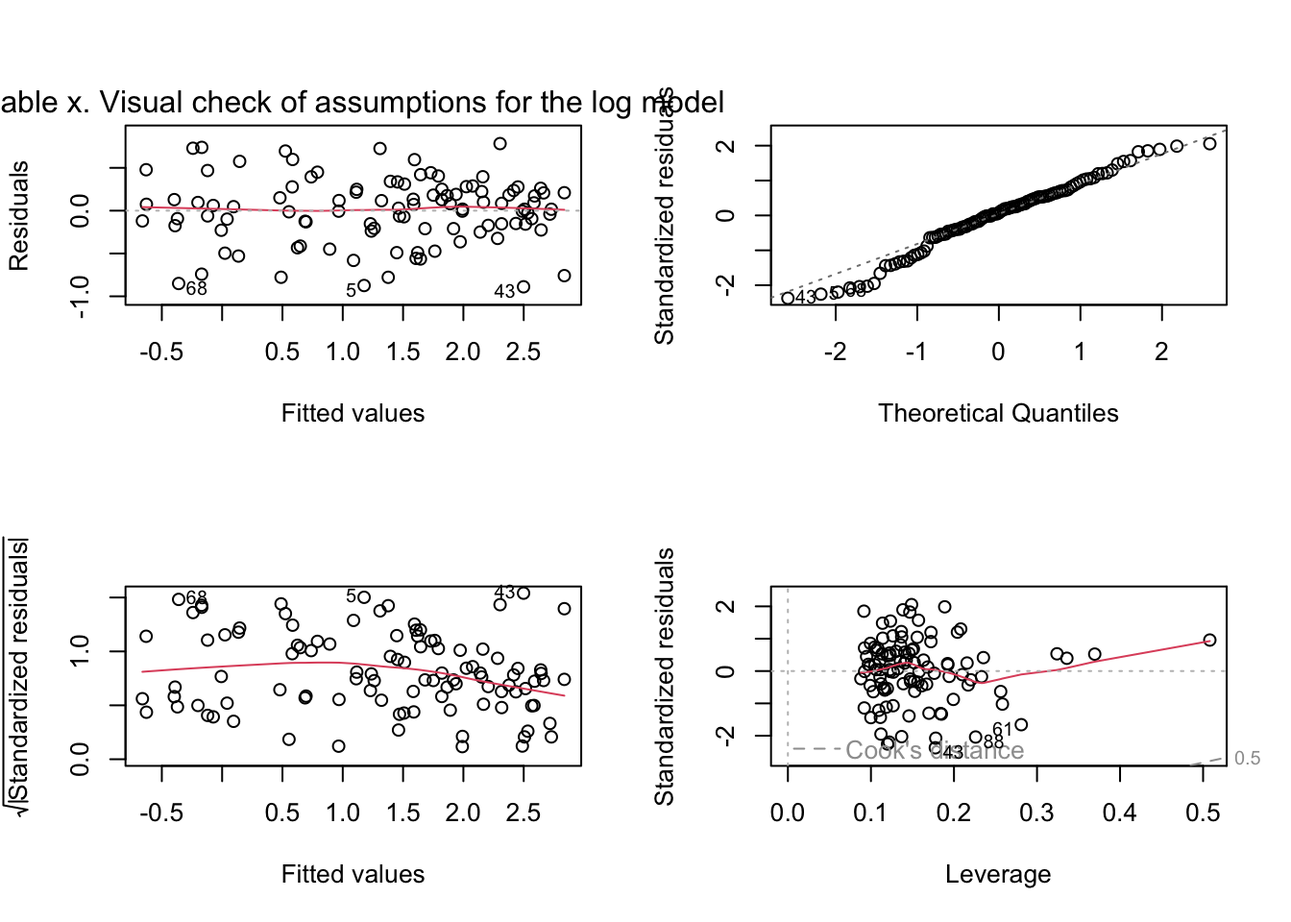
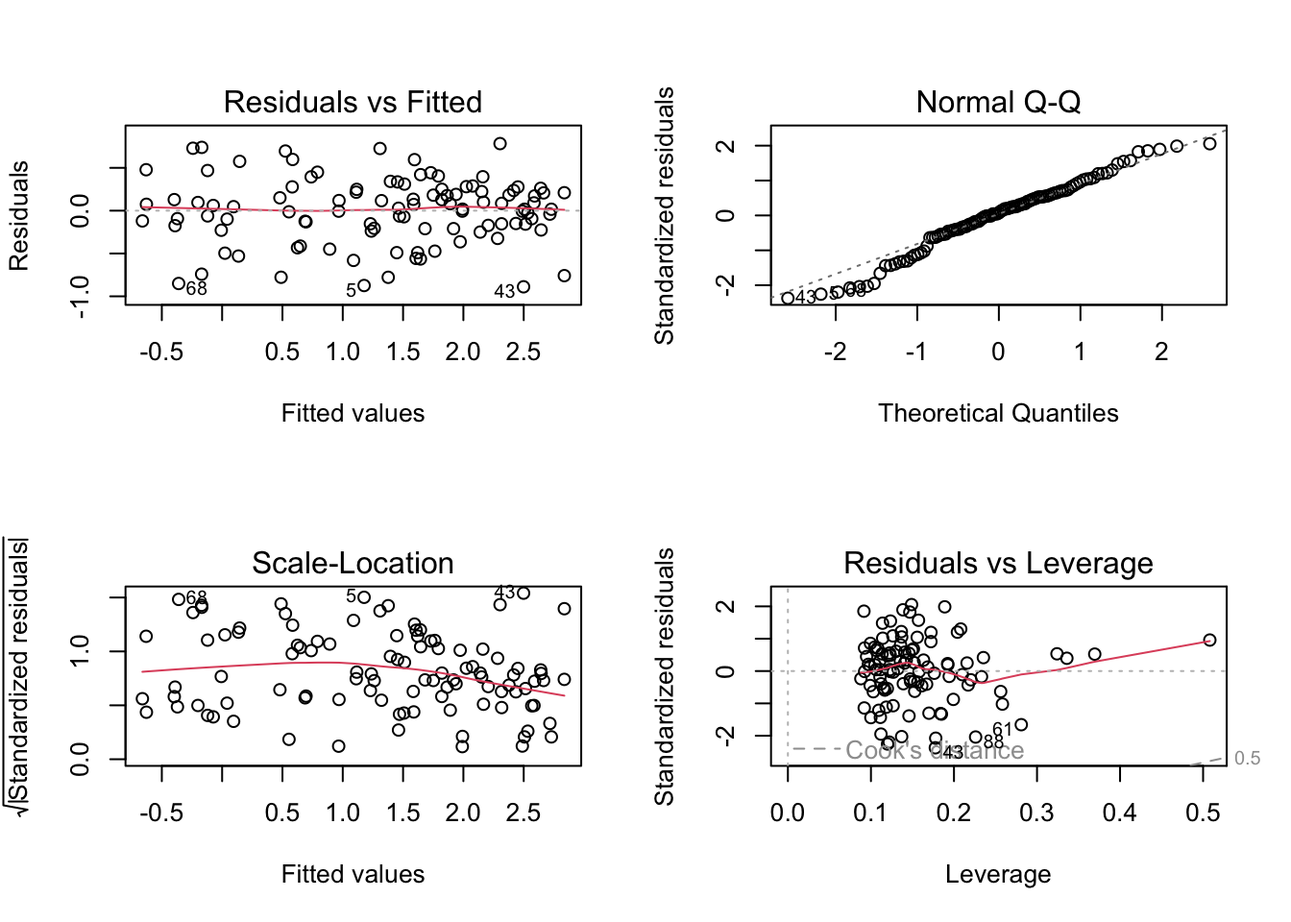
methods complete

diff --git a/code/hw5.html b/code/hw5.html
@@ -162,7 +162,8 @@ pre > code.sourceCode > span > a:first-child::before { text-decoration: underlin
 </section>
 <section id="methods" class="level1">
 <h1>Methods</h1>
-<p>llison and Farnsworth (2021) conducted a manipulative feeding experiment with multiple species of Sarracenia to examine the effects of varying nutrient availability on multiple physiological factors. The resulting data was wrangled and uploaded to RStudio. We initially filtered the dataset to extract the variables most relevant to answering our research question: how do Sarracenia characteristics predict biomass? After initial wrangling and filtering, we began our analysis by creating a visualization of the missing data in our entire data subset (Figure 1). This figure brings attention to the missing values for several variables, however, the missingness is relatively low. In order to examine the relationships between the numerical variables in our dataset, we calculated Pearson’s r and visually represented the correlation using a correlation plot (Figure 2). This correlation plot allows us to visually represent the possible correlations between our variables. To further understand the relationships between our variables, we created a pair plot of each variable compared against the others (Figure 3). o determine how species and physiological characters predict biomass, we fit multiple linear models. We started by creating a full model using the entire subset of variables of interest, with total mass (<span class="math inline">\(g\)</span>) as the response variable, and the predictor variables being the species of Sarracenia, feed level (<span class="math inline">\(g\)</span>), specific leaf area (<span class="math inline">\(cm^2/g\)</span>), chlorophyll a + b content (<span class="math inline">\(mg/g\)</span>), photosynthetic rate (<span class="math inline">\(nmol CO2 * g^-1 * s^-1\)</span>), number of phyllodes, and number of pitchers and phyllodes. The null model does not contain our predictor variables, only the response variable. We tested our full model for normality using Shapiro-Wilk test and for heteroscedasticity using Breusch-Pagan test. Unfortunately, the full model was non-normal &amp; heteroscedastic, therefore did not meet the assumptions for linear regression (Figure 4). To combat this, we performed a mathematical transformation by taking the log of the response variable. The resulting log transformed model did meet the visual and statistical assumption checks for linear regression by having normally distributed residuals and homoscedastic variance (Figure 5). Using this log model, we set out to determine which predictor variables best explain the response in total mass. e found that species alone is a good predictor of total mass. Figure 4: model 1, species (not enough)</p>
+<p>Ellison and Farnsworth (2021) conducted a manipulative feeding experiment with multiple species of Sarracenia to examine the effects of varying nutrient availability on multiple physiological factors. The resulting data was wrangled and uploaded to RStudio. We initially filtered the dataset to extract the variables most relevant to answering our research question: how do Sarracenia characteristics predict biomass? After initial wrangling and filtering, we began our analysis by creating a visualization of the missing data in our entire data subset (Figure 1). This figure brings attention to the missing values for several variables, however, the missingness is relatively low. In order to examine the relationships between the numerical variables in our dataset, we calculated Pearson’s r and visually represented the correlation using a correlation plot (Figure 2). This correlation plot allows us to visually represent the possible correlations between our variables. To further understand the relationships between our variables, we created a pair plot of each variable compared against the others (Figure 3). To determine how species and physiological characters predict biomass, we fit multiple linear models. We started by creating a full model using the entire subset of variables of interest, with total mass (<span class="math inline">\(g\)</span>) as the response variable, and the predictor variables being the species of Sarracenia, feed level (<span class="math inline">\(g\)</span>), specific leaf area (<span class="math inline">\(cm^2/g\)</span>), chlorophyll a + b content (<span class="math inline">\(mg/g\)</span>), photosynthetic rate (<span class="math inline">\(nmol CO2 * g^-1 * s^-1\)</span>), number of phyllodes, and number of pitchers and phyllodes. The null model does not contain our predictor variables, only the response variable. We tested our full model for normality using Shapiro-Wilk test and for heteroscedasticity using Breusch-Pagan test. Unfortunately, the full model was non-normal &amp; heteroscedastic, therefore did not meet the assumptions for linear regression (Figure 4). To combat this, we performed a mathematical transformation by taking the log of the response variable. The resulting log transformed model did meet the visual and statistical assumption checks for linear regression by having normally distributed residuals and homoscedastic variance (Figure 5). Using this log model, we set out to determine which predictor variables best explain the response in total mass. We found that species alone is a good predictor of total mass. Model 1, representing species as the sole predictor of biomass, conforms visually and statistically to the assumptions of linear regression (Figure 6). We chose this model due to the strong correlation between species and biomass. To create Model 2 we excluded the predictor variable that had the lowest correlation with biomass, which was number of phyllodes. Model 2 also has normally distributed residuals and homoscedastic variance (Figure 7). We hoped that excluding the variable with the weakest correlation would increase the simplicity of our results. Finally, we excluded several poorly correlated variables to create Model 3, including only the more strongly correlated variables of species, specific leaf area, feed level, chlorophyll, and number of pitchers and phyllodes. To ensure accuracy of our interpretation, we evaluated multicolinearity by calculating the generalized Variance Inflation Factor and determined that there are no related predictors which inflate the data (Table 1). We then compared our constructed models using Akaike Info Criterion (AIC).</p>
+<p>(Figure 4: model 1, species (not enough)</p>
 <p>Assumption</p>
 <p>Figure 5: model 2,</p>
 <p>To create the second model, we removed the predictor variable with the lowest correlation with biomass, which was the photosynthetic rate. Looking at a model with relatively many predictor variables Assumptions</p>
@@ -177,16 +178,11 @@ pre > code.sourceCode > span > a:first-child::before { text-decoration: underlin
 <div class="cell">
 <details>
 <summary>Code</summary>
-<div class="sourceCode cell-code" id="cb3"><pre class="sourceCode r code-with-copy"><code class="sourceCode r"><span id="cb3-1"><a href="#cb3-1" aria-hidden="true" tabindex="-1"></a><span class="co"># Figure 1: visualize missing data</span></span>
+<div class="sourceCode cell-code" id="cb3"><pre class="sourceCode r code-with-copy"><code class="sourceCode r"><span id="cb3-1"><a href="#cb3-1" aria-hidden="true" tabindex="-1"></a><span class="co"># Figure 1. visualize missing data</span></span>
 <span id="cb3-2"><a href="#cb3-2" aria-hidden="true" tabindex="-1"></a><span class="fu">gg_miss_var</span>(plant) </span></code><button title="Copy to Clipboard" class="code-copy-button"><i class="bi"></i></button></pre></div>
 </details>
 <div class="cell-output-display">
-<div id="fig-1" class="quarto-figure quarto-figure-center anchored">
-<figure class="figure">
-<p><img src="hw5_files/figure-html/fig-1-1.png" class="img-fluid figure-img" width="672"></p>
-<p></p><figcaption class="figure-caption">Figure&nbsp;1: <strong>?(caption)</strong></figcaption><p></p>
-</figure>
-</div>
+<p><img src="hw5_files/figure-html/miss-var-1.png" class="img-fluid" width="672"></p>
 </div>
 </div>
 <p><strong>Figure 1. Visualizing variables with missing data in the Sarracinia data subset.</strong> The variables chlorophyll, amass, sla, num_phylls, and num_lvs all have missing data, however, the missingness is relatively low.</p>
@@ -201,7 +197,7 @@ pre > code.sourceCode > span > a:first-child::before { text-decoration: underlin
 <div class="cell">
 <details>
 <summary>Code</summary>
-<div class="sourceCode cell-code" id="cb5"><pre class="sourceCode r code-with-copy"><code class="sourceCode r"><span id="cb5-1"><a href="#cb5-1" aria-hidden="true" tabindex="-1"></a><span class="co"># Figure 2: correlation plot</span></span>
+<div class="sourceCode cell-code" id="cb5"><pre class="sourceCode r code-with-copy"><code class="sourceCode r"><span id="cb5-1"><a href="#cb5-1" aria-hidden="true" tabindex="-1"></a><span class="co"># correlation plot</span></span>
 <span id="cb5-2"><a href="#cb5-2" aria-hidden="true" tabindex="-1"></a><span class="co"># calculate Pearson's r for numerical values only</span></span>
 <span id="cb5-3"><a href="#cb5-3" aria-hidden="true" tabindex="-1"></a>plant_cor <span class="ot">&lt;-</span> plant_subset <span class="sc">%&gt;%</span> </span>
 <span id="cb5-4"><a href="#cb5-4" aria-hidden="true" tabindex="-1"></a>  <span class="fu">select</span>(feedlevel<span class="sc">:</span>num_phylls) <span class="sc">%&gt;%</span> </span>
@@ -213,30 +209,20 @@ pre > code.sourceCode > span > a:first-child::before { text-decoration: underlin
 <span id="cb5-10"><a href="#cb5-10" aria-hidden="true" tabindex="-1"></a>         <span class="at">addCoef.col =</span> <span class="st">"black"</span>) </span></code><button title="Copy to Clipboard" class="code-copy-button"><i class="bi"></i></button></pre></div>
 </details>
 <div class="cell-output-display">
-<div id="fig-2" class="quarto-figure quarto-figure-center anchored">
-<figure class="figure">
-<p><img src="hw5_files/figure-html/fig-2-1.png" class="img-fluid figure-img" width="672"></p>
-<p></p><figcaption class="figure-caption">Figure&nbsp;2: <strong>?(caption)</strong></figcaption><p></p>
-</figure>
-</div>
+<p><img src="hw5_files/figure-html/corr-plot-1.png" class="img-fluid" width="672"></p>
 </div>
 </div>
 <p><strong>Figure 2. Plot of correlation between variables.</strong> These values were calculated using Pearson’s r.</p>
 <div class="cell">
 <details>
 <summary>Code</summary>
-<div class="sourceCode cell-code" id="cb6"><pre class="sourceCode r code-with-copy"><code class="sourceCode r"><span id="cb6-1"><a href="#cb6-1" aria-hidden="true" tabindex="-1"></a><span class="co"># Figure 3: "pair plot"</span></span>
+<div class="sourceCode cell-code" id="cb6"><pre class="sourceCode r code-with-copy"><code class="sourceCode r"><span id="cb6-1"><a href="#cb6-1" aria-hidden="true" tabindex="-1"></a><span class="co"># pair plot</span></span>
 <span id="cb6-2"><a href="#cb6-2" aria-hidden="true" tabindex="-1"></a>plant_subset <span class="sc">%&gt;%</span> </span>
 <span id="cb6-3"><a href="#cb6-3" aria-hidden="true" tabindex="-1"></a>  <span class="fu">select</span>(species<span class="sc">:</span>num_phylls) <span class="sc">%&gt;%</span> </span>
 <span id="cb6-4"><a href="#cb6-4" aria-hidden="true" tabindex="-1"></a>  <span class="fu">ggpairs</span>()</span></code><button title="Copy to Clipboard" class="code-copy-button"><i class="bi"></i></button></pre></div>
 </details>
 <div class="cell-output-display">
-<div id="fig-3" class="quarto-figure quarto-figure-center anchored">
-<figure class="figure">
-<p><img src="hw5_files/figure-html/fig-3-1.png" class="img-fluid figure-img" width="672"></p>
-<p></p><figcaption class="figure-caption">Figure&nbsp;3: <strong>?(caption)</strong></figcaption><p></p>
-</figure>
-</div>
+<p><img src="hw5_files/figure-html/pairs-plot-1.png" class="img-fluid" width="672"></p>
 </div>
 </div>
 <p><strong>Figure 3. Pair plot.</strong></p>
@@ -289,7 +275,7 @@ pre > code.sourceCode > span > a:first-child::before { text-decoration: underlin
 <span id="cb13-5"><a href="#cb13-5" aria-hidden="true" tabindex="-1"></a><span class="co"># Assumptions</span></span>
 <span id="cb13-6"><a href="#cb13-6" aria-hidden="true" tabindex="-1"></a><span class="co"># Log model visual assumptions check</span></span>
 <span id="cb13-7"><a href="#cb13-7" aria-hidden="true" tabindex="-1"></a><span class="fu">par</span>(<span class="at">mfrow =</span> <span class="fu">c</span>(<span class="dv">2</span>,<span class="dv">2</span>))</span>
-<span id="cb13-8"><a href="#cb13-8" aria-hidden="true" tabindex="-1"></a><span class="fu">plot</span>(full_log, <span class="at">caption =</span> <span class="st">"Table x. Visual check of assumptions for the log model"</span>)</span></code><button title="Copy to Clipboard" class="code-copy-button"><i class="bi"></i></button></pre></div>
+<span id="cb13-8"><a href="#cb13-8" aria-hidden="true" tabindex="-1"></a><span class="fu">plot</span>(full_log)</span></code><button title="Copy to Clipboard" class="code-copy-button"><i class="bi"></i></button></pre></div>
 </details>
 <div class="cell-output-display">
 <p><img src="hw5_files/figure-html/log-transform-1.png" class="img-fluid" width="672"></p>
@@ -316,21 +302,23 @@ pre > code.sourceCode > span > a:first-child::before { text-decoration: underlin
 <div class="cell">
 <details>
 <summary>Code</summary>
-<div class="sourceCode cell-code" id="cb18"><pre class="sourceCode r code-with-copy"><code class="sourceCode r"><span id="cb18-1"><a href="#cb18-1" aria-hidden="true" tabindex="-1"></a><span class="co"># Figure 4: model 1 </span></span>
-<span id="cb18-2"><a href="#cb18-2" aria-hidden="true" tabindex="-1"></a><span class="co"># species predicts biomass?</span></span>
-<span id="cb18-3"><a href="#cb18-3" aria-hidden="true" tabindex="-1"></a>model1_log <span class="ot">&lt;-</span> <span class="fu">lm</span>(<span class="fu">log</span>(totmass) <span class="sc">~</span> species, <span class="at">data =</span> plant_subset)</span>
-<span id="cb18-4"><a href="#cb18-4" aria-hidden="true" tabindex="-1"></a></span>
-<span id="cb18-5"><a href="#cb18-5" aria-hidden="true" tabindex="-1"></a><span class="co"># Assumptions</span></span>
-<span id="cb18-6"><a href="#cb18-6" aria-hidden="true" tabindex="-1"></a><span class="co"># model 1 visual assumptions check</span></span>
-<span id="cb18-7"><a href="#cb18-7" aria-hidden="true" tabindex="-1"></a><span class="fu">par</span>(<span class="at">mfrow =</span> <span class="fu">c</span>(<span class="dv">2</span>,<span class="dv">2</span>))</span>
-<span id="cb18-8"><a href="#cb18-8" aria-hidden="true" tabindex="-1"></a><span class="fu">plot</span>(model1_log, <span class="at">caption =</span> <span class="st">"Table x. Visual check of assumptions for the log model"</span>)</span></code><button title="Copy to Clipboard" class="code-copy-button"><i class="bi"></i></button></pre></div>
+<div class="sourceCode cell-code" id="cb18"><pre class="sourceCode r code-with-copy"><code class="sourceCode r"><span id="cb18-1"><a href="#cb18-1" aria-hidden="true" tabindex="-1"></a><span class="co"># model 1, species predicts biomass?</span></span>
+<span id="cb18-2"><a href="#cb18-2" aria-hidden="true" tabindex="-1"></a>model1_log <span class="ot">&lt;-</span> <span class="fu">lm</span>(<span class="fu">log</span>(totmass) <span class="sc">~</span> species, <span class="at">data =</span> plant_subset)</span>
+<span id="cb18-3"><a href="#cb18-3" aria-hidden="true" tabindex="-1"></a></span>
+<span id="cb18-4"><a href="#cb18-4" aria-hidden="true" tabindex="-1"></a><span class="co"># Assumptions</span></span>
+<span id="cb18-5"><a href="#cb18-5" aria-hidden="true" tabindex="-1"></a><span class="co"># model 1 visual assumptions check</span></span>
+<span id="cb18-6"><a href="#cb18-6" aria-hidden="true" tabindex="-1"></a><span class="fu">par</span>(<span class="at">mfrow =</span> <span class="fu">c</span>(<span class="dv">2</span>,<span class="dv">2</span>))</span>
+<span id="cb18-7"><a href="#cb18-7" aria-hidden="true" tabindex="-1"></a><span class="fu">plot</span>(model1_log)</span></code><button title="Copy to Clipboard" class="code-copy-button"><i class="bi"></i></button></pre></div>
 </details>
 <div class="cell-output-display">
-<p><img src="hw5_files/figure-html/methods-code-1.png" class="img-fluid" width="672"></p>
+<p><img src="hw5_files/figure-html/model1-1.png" class="img-fluid" width="672"></p>
 </div>
+</div>
+<p><strong>Figure 6. Visual assumption check for Model 1.</strong></p>
+<div class="cell">
 <details>
 <summary>Code</summary>
-<div class="sourceCode cell-code" id="cb19"><pre class="sourceCode r code-with-copy"><code class="sourceCode r"><span id="cb19-1"><a href="#cb19-1" aria-hidden="true" tabindex="-1"></a><span class="co"># model stats assumptions check </span></span>
+<div class="sourceCode cell-code" id="cb19"><pre class="sourceCode r code-with-copy"><code class="sourceCode r"><span id="cb19-1"><a href="#cb19-1" aria-hidden="true" tabindex="-1"></a><span class="co"># model 1 stats assumptions check </span></span>
 <span id="cb19-2"><a href="#cb19-2" aria-hidden="true" tabindex="-1"></a><span class="fu">check_normality</span>(model1_log)</span></code><button title="Copy to Clipboard" class="code-copy-button"><i class="bi"></i></button></pre></div>
 </details>
 <div class="cell-output cell-output-stdout">
@@ -343,41 +331,74 @@ pre > code.sourceCode > span > a:first-child::before { text-decoration: underlin
 <div class="cell-output cell-output-stdout">
 <pre><code>OK: Error variance appears to be homoscedastic (p = 0.100).</code></pre>
 </div>
+</div>
+<div class="cell">
 <details>
 <summary>Code</summary>
-<div class="sourceCode cell-code" id="cb23"><pre class="sourceCode r code-with-copy"><code class="sourceCode r"><span id="cb23-1"><a href="#cb23-1" aria-hidden="true" tabindex="-1"></a><span class="co"># Figure 5: model 2</span></span>
-<span id="cb23-2"><a href="#cb23-2" aria-hidden="true" tabindex="-1"></a></span>
-<span id="cb23-3"><a href="#cb23-3" aria-hidden="true" tabindex="-1"></a><span class="co"># Assumptions</span></span>
-<span id="cb23-4"><a href="#cb23-4" aria-hidden="true" tabindex="-1"></a></span>
-<span id="cb23-5"><a href="#cb23-5" aria-hidden="true" tabindex="-1"></a><span class="co"># Figure 6: model 3</span></span>
-<span id="cb23-6"><a href="#cb23-6" aria-hidden="true" tabindex="-1"></a><span class="co"># species predicts biomass?</span></span>
-<span id="cb23-7"><a href="#cb23-7" aria-hidden="true" tabindex="-1"></a>model3_log <span class="ot">&lt;-</span> <span class="fu">lm</span>(<span class="fu">log</span>(totmass) <span class="sc">~</span> species <span class="sc">+</span> sla <span class="sc">+</span> feedlevel <span class="sc">+</span> chlorophyll <span class="sc">+</span> num_lvs, <span class="at">data =</span> plant_subset)</span>
-<span id="cb23-8"><a href="#cb23-8" aria-hidden="true" tabindex="-1"></a></span>
-<span id="cb23-9"><a href="#cb23-9" aria-hidden="true" tabindex="-1"></a><span class="fu">par</span>(<span class="at">mfrow =</span> <span class="fu">c</span>(<span class="dv">2</span>,<span class="dv">2</span>))</span>
-<span id="cb23-10"><a href="#cb23-10" aria-hidden="true" tabindex="-1"></a><span class="fu">plot</span>(model3_log)</span></code><button title="Copy to Clipboard" class="code-copy-button"><i class="bi"></i></button></pre></div>
+<div class="sourceCode cell-code" id="cb23"><pre class="sourceCode r code-with-copy"><code class="sourceCode r"><span id="cb23-1"><a href="#cb23-1" aria-hidden="true" tabindex="-1"></a><span class="co"># model 2: species + feedlevel + sla + chlorophyll + amass + num_lvs</span></span>
+<span id="cb23-2"><a href="#cb23-2" aria-hidden="true" tabindex="-1"></a>model2_log <span class="ot">&lt;-</span> <span class="fu">lm</span>(<span class="fu">log</span>(totmass) <span class="sc">~</span> species <span class="sc">+</span> feedlevel <span class="sc">+</span> sla <span class="sc">+</span> chlorophyll <span class="sc">+</span> amass <span class="sc">+</span> num_lvs, <span class="at">data =</span> plant_subset)</span>
+<span id="cb23-3"><a href="#cb23-3" aria-hidden="true" tabindex="-1"></a></span>
+<span id="cb23-4"><a href="#cb23-4" aria-hidden="true" tabindex="-1"></a><span class="fu">par</span>(<span class="at">mfrow =</span> <span class="fu">c</span>(<span class="dv">2</span>,<span class="dv">2</span>))</span>
+<span id="cb23-5"><a href="#cb23-5" aria-hidden="true" tabindex="-1"></a><span class="fu">plot</span>(model2_log)</span></code><button title="Copy to Clipboard" class="code-copy-button"><i class="bi"></i></button></pre></div>
 </details>
 <div class="cell-output-display">
-<p><img src="hw5_files/figure-html/methods-code-2.png" class="img-fluid" width="672"></p>
+<p><img src="hw5_files/figure-html/model2-1.png" class="img-fluid" width="672"></p>
+</div>
+</div>
+<p><strong>Figure 6. Visual assumption check for Model 2.</strong></p>
+<div class="cell">
+<details>
+<summary>Code</summary>
+<div class="sourceCode cell-code" id="cb24"><pre class="sourceCode r code-with-copy"><code class="sourceCode r"><span id="cb24-1"><a href="#cb24-1" aria-hidden="true" tabindex="-1"></a><span class="co"># model 2 stats assumptions check </span></span>
+<span id="cb24-2"><a href="#cb24-2" aria-hidden="true" tabindex="-1"></a><span class="fu">check_normality</span>(model2_log)</span></code><button title="Copy to Clipboard" class="code-copy-button"><i class="bi"></i></button></pre></div>
+</details>
+<div class="cell-output cell-output-stdout">
+<pre><code>OK: residuals appear as normally distributed (p = 0.100).</code></pre>
 </div>
 <details>
 <summary>Code</summary>
-<div class="sourceCode cell-code" id="cb24"><pre class="sourceCode r code-with-copy"><code class="sourceCode r"><span id="cb24-1"><a href="#cb24-1" aria-hidden="true" tabindex="-1"></a><span class="co"># model stats assumptions check </span></span>
-<span id="cb24-2"><a href="#cb24-2" aria-hidden="true" tabindex="-1"></a><span class="fu">check_normality</span>(model3_log)</span></code><button title="Copy to Clipboard" class="code-copy-button"><i class="bi"></i></button></pre></div>
+<div class="sourceCode cell-code" id="cb26"><pre class="sourceCode r code-with-copy"><code class="sourceCode r"><span id="cb26-1"><a href="#cb26-1" aria-hidden="true" tabindex="-1"></a><span class="fu">check_heteroscedasticity</span>(model2_log)</span></code><button title="Copy to Clipboard" class="code-copy-button"><i class="bi"></i></button></pre></div>
+</details>
+<div class="cell-output cell-output-stdout">
+<pre><code>OK: Error variance appears to be homoscedastic (p = 0.086).</code></pre>
+</div>
+</div>
+<div class="cell">
+<details>
+<summary>Code</summary>
+<div class="sourceCode cell-code" id="cb28"><pre class="sourceCode r code-with-copy"><code class="sourceCode r"><span id="cb28-1"><a href="#cb28-1" aria-hidden="true" tabindex="-1"></a><span class="co"># model 3: species + sla + feedlevel + chlorophyll + num_lvs</span></span>
+<span id="cb28-2"><a href="#cb28-2" aria-hidden="true" tabindex="-1"></a>model3_log <span class="ot">&lt;-</span> <span class="fu">lm</span>(<span class="fu">log</span>(totmass) <span class="sc">~</span> species <span class="sc">+</span> sla <span class="sc">+</span> feedlevel <span class="sc">+</span> chlorophyll <span class="sc">+</span> num_lvs, <span class="at">data =</span> plant_subset)</span>
+<span id="cb28-3"><a href="#cb28-3" aria-hidden="true" tabindex="-1"></a></span>
+<span id="cb28-4"><a href="#cb28-4" aria-hidden="true" tabindex="-1"></a><span class="fu">par</span>(<span class="at">mfrow =</span> <span class="fu">c</span>(<span class="dv">2</span>,<span class="dv">2</span>))</span>
+<span id="cb28-5"><a href="#cb28-5" aria-hidden="true" tabindex="-1"></a><span class="fu">plot</span>(model3_log)</span></code><button title="Copy to Clipboard" class="code-copy-button"><i class="bi"></i></button></pre></div>
+</details>
+<div class="cell-output-display">
+<p><img src="hw5_files/figure-html/model3-1.png" class="img-fluid" width="672"></p>
+</div>
+</div>
+<p><strong>Figure 6. Visual assumption check for Model 3.</strong></p>
+<div class="cell">
+<details>
+<summary>Code</summary>
+<div class="sourceCode cell-code" id="cb29"><pre class="sourceCode r code-with-copy"><code class="sourceCode r"><span id="cb29-1"><a href="#cb29-1" aria-hidden="true" tabindex="-1"></a><span class="co"># model 3 stats assumptions check </span></span>
+<span id="cb29-2"><a href="#cb29-2" aria-hidden="true" tabindex="-1"></a><span class="fu">check_normality</span>(model3_log)</span></code><button title="Copy to Clipboard" class="code-copy-button"><i class="bi"></i></button></pre></div>
 </details>
 <div class="cell-output cell-output-stdout">
 <pre><code>OK: residuals appear as normally distributed (p = 0.062).</code></pre>
 </div>
 <details>
 <summary>Code</summary>
-<div class="sourceCode cell-code" id="cb26"><pre class="sourceCode r code-with-copy"><code class="sourceCode r"><span id="cb26-1"><a href="#cb26-1" aria-hidden="true" tabindex="-1"></a><span class="fu">check_heteroscedasticity</span>(model3_log)</span></code><button title="Copy to Clipboard" class="code-copy-button"><i class="bi"></i></button></pre></div>
+<div class="sourceCode cell-code" id="cb31"><pre class="sourceCode r code-with-copy"><code class="sourceCode r"><span id="cb31-1"><a href="#cb31-1" aria-hidden="true" tabindex="-1"></a><span class="fu">check_heteroscedasticity</span>(model3_log)</span></code><button title="Copy to Clipboard" class="code-copy-button"><i class="bi"></i></button></pre></div>
 </details>
 <div class="cell-output cell-output-stdout">
 <pre><code>OK: Error variance appears to be homoscedastic (p = 0.067).</code></pre>
 </div>
+</div>
+<div class="cell">
 <details>
 <summary>Code</summary>
-<div class="sourceCode cell-code" id="cb28"><pre class="sourceCode r code-with-copy"><code class="sourceCode r"><span id="cb28-1"><a href="#cb28-1" aria-hidden="true" tabindex="-1"></a><span class="co"># Variance Inflation Factor (VIF) to evaluate multicolinearity</span></span>
-<span id="cb28-2"><a href="#cb28-2" aria-hidden="true" tabindex="-1"></a>car<span class="sc">::</span><span class="fu">vif</span>(full_log, <span class="at">caption =</span> <span class="st">"Table x."</span>)</span></code><button title="Copy to Clipboard" class="code-copy-button"><i class="bi"></i></button></pre></div>
+<div class="sourceCode cell-code" id="cb33"><pre class="sourceCode r code-with-copy"><code class="sourceCode r"><span id="cb33-1"><a href="#cb33-1" aria-hidden="true" tabindex="-1"></a><span class="co"># Variance Inflation Factor (VIF) to evaluate multicolinearity</span></span>
+<span id="cb33-2"><a href="#cb33-2" aria-hidden="true" tabindex="-1"></a>car<span class="sc">::</span><span class="fu">vif</span>(full_log)</span></code><button title="Copy to Clipboard" class="code-copy-button"><i class="bi"></i></button></pre></div>
 </details>
 <div class="cell-output cell-output-stdout">
 <pre><code>                 GVIF Df GVIF^(1/(2*Df))
@@ -389,10 +410,13 @@ amass        2.872084  1        1.694722
 num_lvs      2.813855  1        1.677455
 num_phylls   2.995510  1        1.730754</code></pre>
 </div>
+</div>
+<p><strong>Table 1. Variance Inflation Factor (VIF).</strong></p>
+<div class="cell">
 <details>
 <summary>Code</summary>
-<div class="sourceCode cell-code" id="cb30"><pre class="sourceCode r code-with-copy"><code class="sourceCode r"><span id="cb30-1"><a href="#cb30-1" aria-hidden="true" tabindex="-1"></a><span class="co"># Akaike Information Criterion (AIC)</span></span>
-<span id="cb30-2"><a href="#cb30-2" aria-hidden="true" tabindex="-1"></a><span class="co">#MuMIn::model.sel(full_log, null_log, model1_log, model2_log, model3_log)</span></span></code><button title="Copy to Clipboard" class="code-copy-button"><i class="bi"></i></button></pre></div>
+<div class="sourceCode cell-code" id="cb35"><pre class="sourceCode r code-with-copy"><code class="sourceCode r"><span id="cb35-1"><a href="#cb35-1" aria-hidden="true" tabindex="-1"></a><span class="co"># Akaike Information Criterion (AIC)</span></span>
+<span id="cb35-2"><a href="#cb35-2" aria-hidden="true" tabindex="-1"></a><span class="co">#MuMIn::model.sel(full_log, null_log, model1_log, model2_log, model3_log)</span></span></code><button title="Copy to Clipboard" class="code-copy-button"><i class="bi"></i></button></pre></div>
 </details>
 </div>
 </section>
@@ -407,7 +431,7 @@ num_phylls   2.995510  1        1.730754</code></pre>
 <div class="cell">
 <details>
 <summary>Code</summary>
-<div class="sourceCode cell-code" id="cb31"><pre class="sourceCode r code-with-copy"><code class="sourceCode r"><span id="cb31-1"><a href="#cb31-1" aria-hidden="true" tabindex="-1"></a><span class="fu">summary</span>(model3_log)</span></code><button title="Copy to Clipboard" class="code-copy-button"><i class="bi"></i></button></pre></div>
+<div class="sourceCode cell-code" id="cb36"><pre class="sourceCode r code-with-copy"><code class="sourceCode r"><span id="cb36-1"><a href="#cb36-1" aria-hidden="true" tabindex="-1"></a><span class="fu">summary</span>(model3_log)</span></code><button title="Copy to Clipboard" class="code-copy-button"><i class="bi"></i></button></pre></div>
 </details>
 <div class="cell-output cell-output-stdout">
 <pre><code>
@@ -446,9 +470,9 @@ F-statistic: 44.66 on 13 and 89 DF,  p-value: &lt; 2.2e-16</code></pre>
 <div class="cell">
 <details>
 <summary>Code</summary>
-<div class="sourceCode cell-code" id="cb33"><pre class="sourceCode r code-with-copy"><code class="sourceCode r"><span id="cb33-1"><a href="#cb33-1" aria-hidden="true" tabindex="-1"></a>model_pred <span class="ot">&lt;-</span> <span class="fu">ggpredict</span>(model3_log, <span class="at">terms =</span> <span class="st">"num_lvs"</span>, <span class="at">back.transform =</span> <span class="cn">TRUE</span>)</span>
-<span id="cb33-2"><a href="#cb33-2" aria-hidden="true" tabindex="-1"></a></span>
-<span id="cb33-3"><a href="#cb33-3" aria-hidden="true" tabindex="-1"></a>model_pred</span></code><button title="Copy to Clipboard" class="code-copy-button"><i class="bi"></i></button></pre></div>
+<div class="sourceCode cell-code" id="cb38"><pre class="sourceCode r code-with-copy"><code class="sourceCode r"><span id="cb38-1"><a href="#cb38-1" aria-hidden="true" tabindex="-1"></a>model_pred <span class="ot">&lt;-</span> <span class="fu">ggpredict</span>(model3_log, <span class="at">terms =</span> <span class="st">"num_lvs"</span>, <span class="at">back.transform =</span> <span class="cn">TRUE</span>)</span>
+<span id="cb38-2"><a href="#cb38-2" aria-hidden="true" tabindex="-1"></a></span>
+<span id="cb38-3"><a href="#cb38-3" aria-hidden="true" tabindex="-1"></a>model_pred</span></code><button title="Copy to Clipboard" class="code-copy-button"><i class="bi"></i></button></pre></div>
 </details>
 <div class="cell-output cell-output-stdout">
 <pre><code># Predicted values of totmass
@@ -474,10 +498,10 @@ Adjusted for:
 <div class="cell">
 <details>
 <summary>Code</summary>
-<div class="sourceCode cell-code" id="cb35"><pre class="sourceCode r code-with-copy"><code class="sourceCode r"><span id="cb35-1"><a href="#cb35-1" aria-hidden="true" tabindex="-1"></a><span class="fu">plot</span>(<span class="fu">ggpredict</span>(model3_log, <span class="at">terms =</span> <span class="st">"num_lvs"</span>, <span class="at">back.transform =</span> <span class="cn">TRUE</span>), <span class="at">add.data =</span> <span class="cn">TRUE</span>)</span></code><button title="Copy to Clipboard" class="code-copy-button"><i class="bi"></i></button></pre></div>
+<div class="sourceCode cell-code" id="cb40"><pre class="sourceCode r code-with-copy"><code class="sourceCode r"><span id="cb40-1"><a href="#cb40-1" aria-hidden="true" tabindex="-1"></a><span class="fu">plot</span>(<span class="fu">ggpredict</span>(model3_log, <span class="at">terms =</span> <span class="st">"num_lvs"</span>, <span class="at">back.transform =</span> <span class="cn">TRUE</span>), <span class="at">add.data =</span> <span class="cn">TRUE</span>)</span></code><button title="Copy to Clipboard" class="code-copy-button"><i class="bi"></i></button></pre></div>
 </details>
 <div class="cell-output-display">
-<p><img src="hw5_files/figure-html/unnamed-chunk-3-1.png" class="img-fluid" width="672"></p>
+<p><img src="hw5_files/figure-html/unnamed-chunk-4-1.png" class="img-fluid" width="672"></p>
 </div>
 </div>
 </section>
